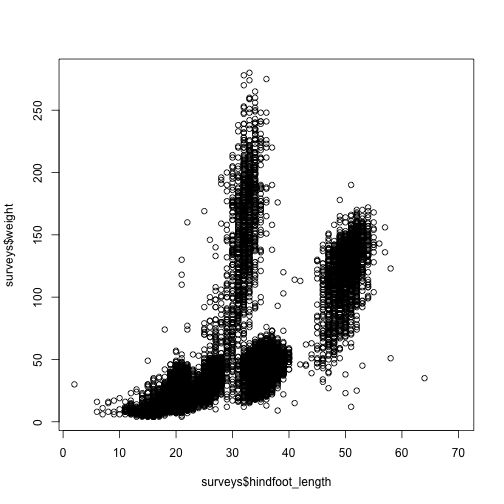
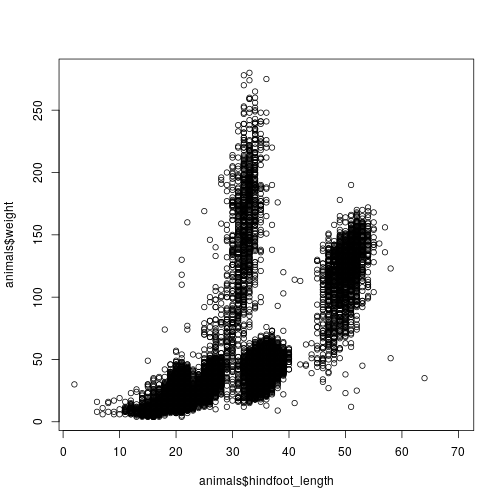
change surveys to animals

diff --git a/docs/_slides/stats.md b/docs/_slides/stats.md
@@ -21,8 +21,8 @@ samp
 ~~~
 {:.input}
 ~~~
- [1]  0.8363729 -0.3765354  0.1219806  0.3843239 -2.0472276  0.1509189
- [7] -0.3434567  0.4794906  1.4788799 -0.4282980
+ [1] -1.3112491  0.6181920  0.3567972 -0.6602221  1.6803084 -1.2819797
+ [7] -0.1405303  0.1952731 -0.3485270  0.9041232
 ~~~
 {:.output}
 
@@ -71,13 +71,13 @@ t.test(x, y)
 	Welch Two Sample t-test
 
 data:  x and y
-t = -23.848, df = 119.14, p-value < 2.2e-16
+t = -22.833, df = 123.23, p-value < 2.2e-16
 alternative hypothesis: true difference in means is not equal to 0
 95 percent confidence interval:
- -19.77695 -16.74465
+ -18.85954 -15.85057
 sample estimates:
 mean of x mean of y 
-  24.3792   42.6400 
+ 25.23494  42.59000 
 ~~~
 {:.output}
 
@@ -103,18 +103,18 @@ lm(formula = y ~ x)
 
 Residuals:
     Min      1Q  Median      3Q     Max 
--6.5678 -1.5387  0.1796  1.4087  4.5568 
+-6.3983 -1.6511 -0.4279  1.5188  6.3128 
 
 Coefficients:
             Estimate Std. Error t value Pr(>|t|)    
-(Intercept) 42.14813    0.82216  51.265   <2e-16 ***
-x            0.02018    0.03232   0.624    0.534    
+(Intercept) 43.29875    0.93086  46.515   <2e-16 ***
+x           -0.02809    0.03550  -0.791    0.431    
 ---
 Signif. codes:  0 '***' 0.001 '**' 0.01 '*' 0.05 '.' 0.1 ' ' 1
 
-Residual standard error: 2.345 on 98 degrees of freedom
-Multiple R-squared:  0.00396,	Adjusted R-squared:  -0.006204 
-F-statistic: 0.3896 on 1 and 98 DF,  p-value: 0.5339
+Residual standard error: 2.532 on 98 degrees of freedom
+Multiple R-squared:  0.006347,	Adjusted R-squared:  -0.003792 
+F-statistic: 0.626 on 1 and 98 DF,  p-value: 0.4307
 ~~~
 {:.output}
 
@@ -122,7 +122,7 @@ F-statistic: 0.3896 on 1 and 98 DF,  p-value: 0.5339
 
 ## Exercise 8
 
-Recall the formula notation used to plot hindfoot_length against weight for the observations in the `surveys` data frame: `plot(hindfoot_length ~ weight, data = surveys)`. Instead of the `plot` function, use the `lm` function to estimate the coefficient of `log(weight)` as a predictor of `log(hindfoot_length)`.
+Recall the formula notation used to plot hindfoot_length against weight for the observations in the `animals` data frame: `plot(hindfoot_length ~ weight, data = animals)`. Instead of the `plot` function, use the `lm` function to estimate the coefficient of `log(weight)` as a predictor of `log(hindfoot_length)`.
 
 [View solution](#solution-8)
 {:.notes}

diff --git a/docs/_slides/solutions.md b/docs/_slides/solutions.md
@@ -122,34 +122,27 @@ str(data)
 
 
 ~~~r
-surveys <- read.csv('data/surveys.csv', stringsAsFactors = FALSE, na.strings = '')
-~~~
-
-~~~
-Warning in file(file, "rt"): cannot open file 'data/surveys.csv': No such
-file or directory
-~~~
-
-~~~
-Error in file(file, "rt"): cannot open the connection
-~~~
-
-~~~r
-surveys$sex <- factor(surveys$sex)
-~~~
-
-~~~
-Error in factor(surveys$sex): object 'surveys' not found
+animals <- read.csv('data/animals.csv', stringsAsFactors = FALSE, na.strings = '')
+animals$sex <- factor(animals$sex)
 ~~~
 {:.text-document title="{{ site.handouts }}"}
 
 
 ~~~r
-str(surveys)
+str(animals)
 ~~~
 {:.input}
 ~~~
-Error in str(surveys): object 'surveys' not found
+'data.frame':	35549 obs. of  9 variables:
+ $ id             : int  2 3 4 5 6 7 8 9 10 11 ...
+ $ month          : int  7 7 7 7 7 7 7 7 7 7 ...
+ $ day            : int  16 16 16 16 16 16 16 16 16 16 ...
+ $ year           : int  1977 1977 1977 1977 1977 1977 1977 1977 1977 1977 ...
+ $ plot_id        : int  3 2 7 3 1 2 1 1 6 5 ...
+ $ species_id     : chr  "NL" "DM" "DM" "DM" ...
+ $ sex            : Factor w/ 2 levels "F","M": 2 1 2 2 2 1 2 1 1 1 ...
+ $ hindfoot_length: int  33 37 36 35 14 NA 37 34 20 53 ...
+ $ weight         : int  NA NA NA NA NA NA NA NA NA NA ...
 ~~~
 {:.output}
 
@@ -257,21 +250,18 @@ first(m)
 
 
 ~~~r
-surveys.hl_model <- lm(log(hindfoot_length) ~ log(weight), data = surveys)
-~~~
-
-~~~
-Error in is.data.frame(data): object 'surveys' not found
+animals.hl_model <- lm(log(hindfoot_length) ~ log(weight), data = animals)
 ~~~
 {:.text-document title="{{ site.handouts }}"}
 
 
 ~~~r
-coef(surveys.hl_model)[2]
+coef(animals.hl_model)[2]
 ~~~
 {:.input}
 ~~~
-Error in coef(surveys.hl_model): object 'surveys.hl_model' not found
+log(weight) 
+  0.3961338 
 ~~~
 {:.output}
 

diff --git a/docs/_slides/load.md b/docs/_slides/load.md
@@ -62,16 +62,7 @@ Use the assignment operator "<-" to store that data in memory and work with it
 
 ~~~r
 plots <- read.csv(file = "data/plots.csv")
-surveys <- read.csv(file = "data/surveys.csv")
-~~~
-
-~~~
-Warning in file(file, "rt"): cannot open file 'data/surveys.csv': No such
-file or directory
-~~~
-
-~~~
-Error in file(file, "rt"): cannot open the connection
+animals <- read.csv(file = "data/animals.csv")
 ~~~
 {:.text-document title="{{ site.handouts }}"}
 
@@ -80,7 +71,7 @@ You can also specify multiple things to be interpreted as missing values, such a
 
 ===
 
-After reading in the "surveys.csv" and "plots.csv" files, let's explore what types of data are in each column and what kind of structure your data has. 
+After reading in the "animals.csv" and "plots.csv" files, let's explore what types of data are in each column and what kind of structure your data has. 
 
 
 ~~~r
@@ -115,8 +106,8 @@ summary(plots)
 ## Exercise 4
 
 By default, all character data is read in to a data.frame as factors.
-Use the `read.csv()` argument `stringsAsFactors` to suppress this behavior, then subsequently modify the `sex` column in `surveys` to make it a factor.
-Columns of a `data.frame` are identified to the R interpreter with the `$` operator, e.g. `surveys$sex`. We'll see more on this below.
+Use the `read.csv()` argument `stringsAsFactors` to suppress this behavior, then subsequently modify the `sex` column in `animals` to make it a factor.
+Columns of a `data.frame` are identified to the R interpreter with the `$` operator, e.g. `animals$sex`. We'll see more on this below.
 
 [View solution](#solution-4)
 {:.notes}

diff --git a/docs/_slides/plot.md b/docs/_slides/plot.md
@@ -16,15 +16,16 @@ Providing plots with separate "x" and "y" coordinates produces a scatterplot.
 
 
 ~~~r
-plot(surveys$hindfoot_length, surveys$weight)
-~~~
-
-~~~
-Error in plot(surveys$hindfoot_length, surveys$weight): object 'surveys' not found
+plot(animals$hindfoot_length, animals$weight)
 ~~~
 {:.text-document title="{{ site.handouts }}"}
 
-Using R's formula notation, as in `plot(weight ~ hindfoot_length, data = surveys)`, is a more readable syntax for some.
+===
+
+![plot of chunk unnamed-chunk-1]({{ site.baseurl }}/images/unnamed-chunk-1-1.png)
+{:.captioned}
+
+Using R's formula notation, as in `plot(weight ~ hindfoot_length, data = animals)`, is a more readable syntax for some.
 
 ===
 
@@ -34,13 +35,14 @@ To plot binned counts of a single variable, use the `hist` function.
 
 
 ~~~r
-hist(log(surveys$weight))
-~~~
-
-~~~
-Error in hist(log(surveys$weight)): object 'surveys' not found
+hist(log(animals$weight))
 ~~~
 {:.text-document title="{{ site.handouts }}"}
+
+===
+
+![plot of chunk unnamed-chunk-2]({{ site.baseurl }}/images/unnamed-chunk-2-1.png)
+{:.captioned}
 
 ===
 
@@ -50,10 +52,11 @@ Use `boxplot` to compare the number of species seen each year.
 
 
 ~~~r
-boxplot(log(weight) ~ year, data = surveys)
-~~~
-
-~~~
-Error in eval(m$data, parent.frame()): object 'surveys' not found
+boxplot(log(weight) ~ year, data = animals)
 ~~~
 {:.text-document title="{{ site.handouts }}"}
+
+===
+
+![plot of chunk unnamed-chunk-3]({{ site.baseurl }}/images/unnamed-chunk-3-1.png)
+{:.captioned}
